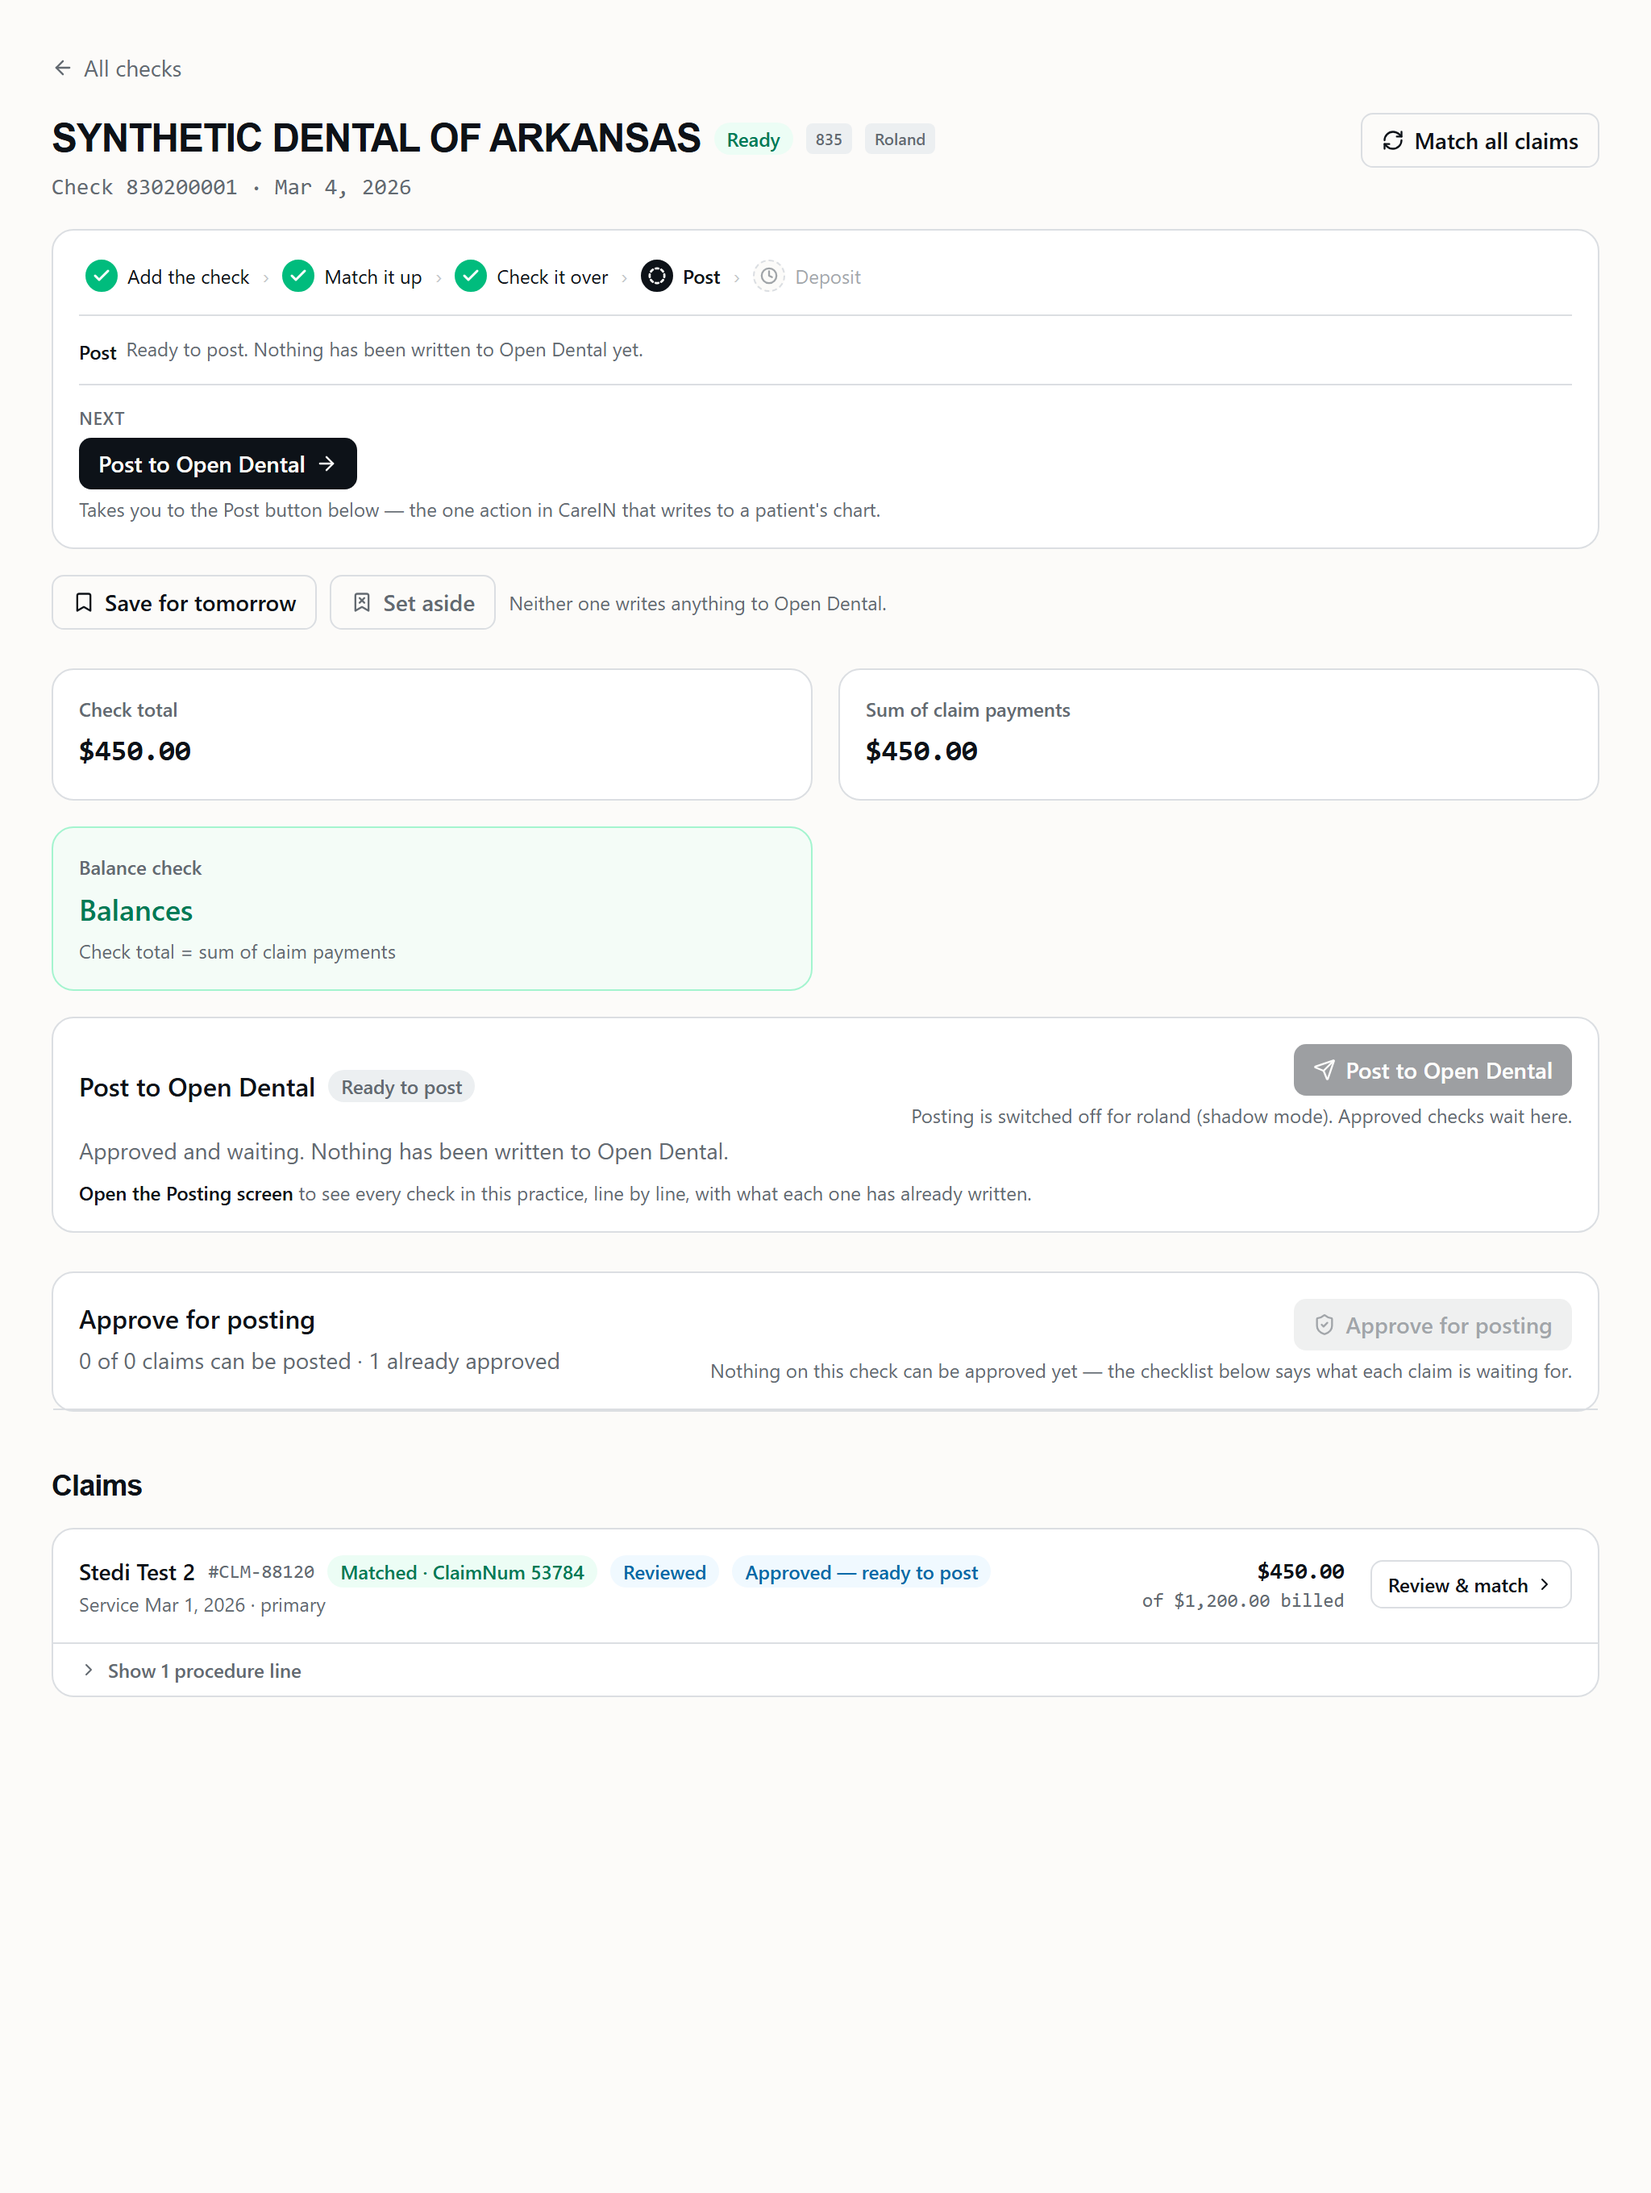
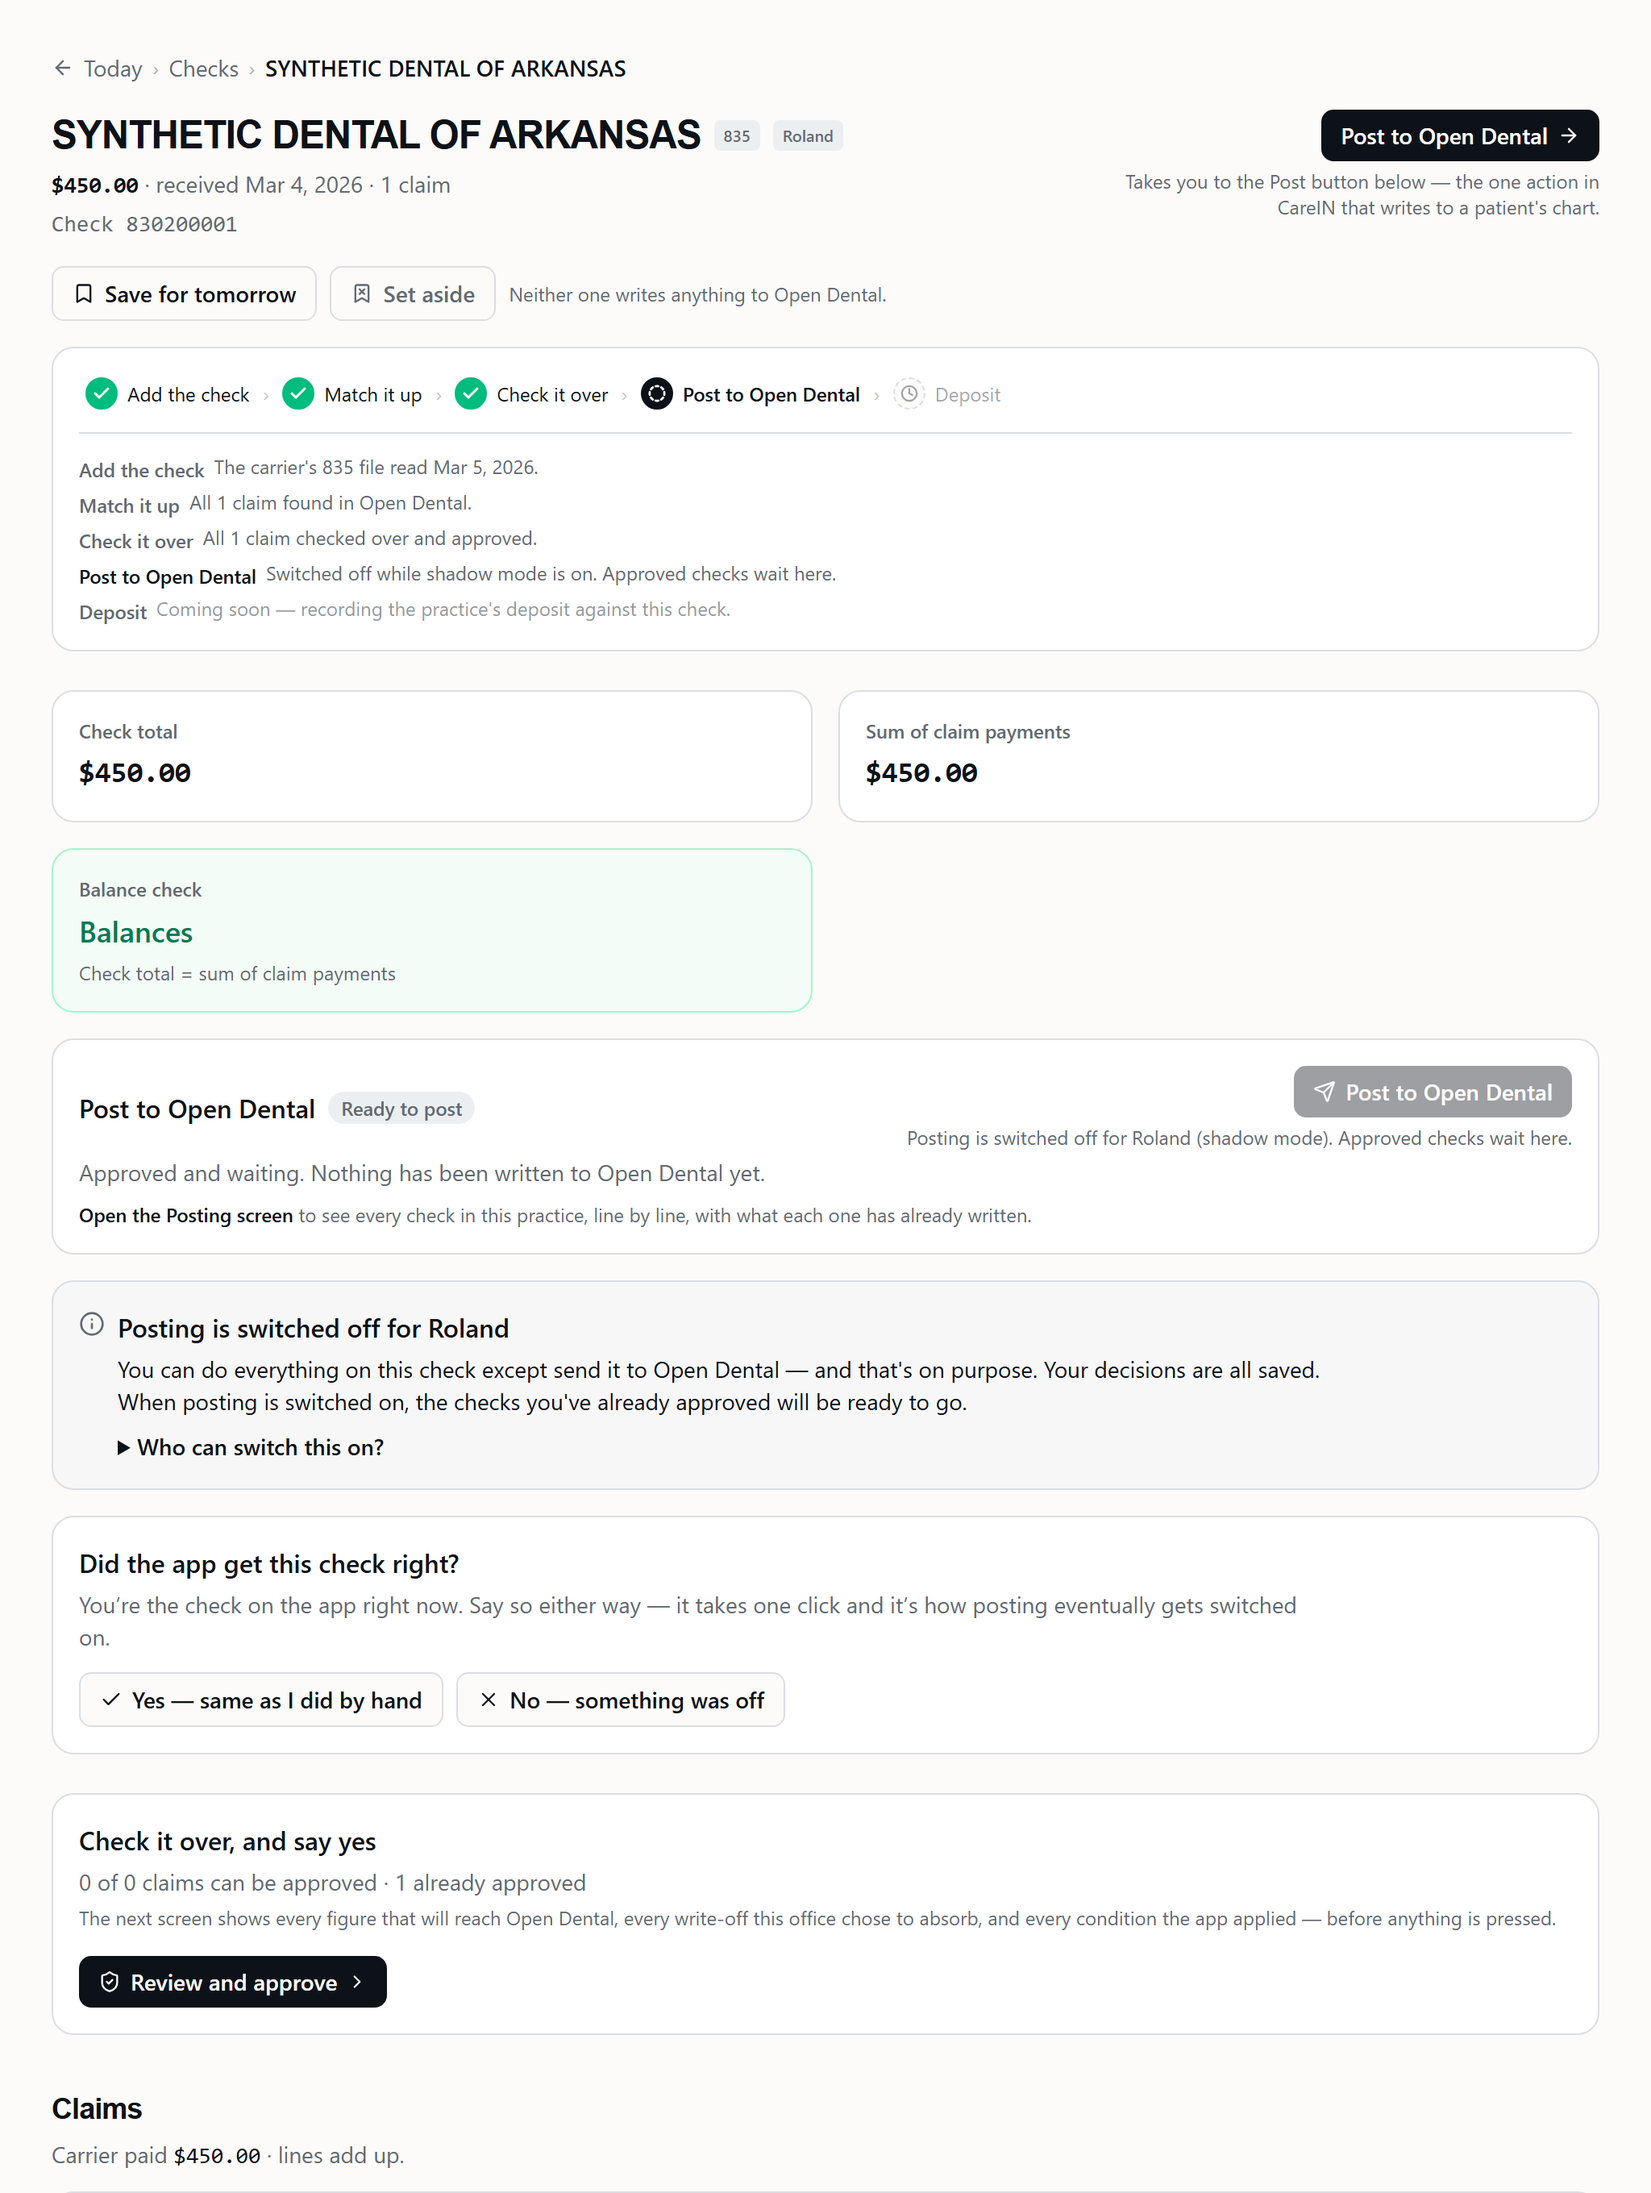
Name the practice, not its key, in the check page's Post reason
PostThisCheck passed the office key into SHADOW_MODE_COPY.reason, so the
greyed Post button read "switched off for roland". It now passes
RCM_OFFICE_LABELS[office], the label the Posting page and the shadow
banner on the same page already use.

The smoke's sweep now fails on any frozen office key in rendered text,
title or aria-label (sweep e), at every screen it visits; 1.17 pins the
exact sentence. The walkthrough drops the known-wart note and lists a
lowercase office key under what must not appear. shell-04 re-shot.

diff --git a/new-dashboard/tests/rcm-smoke.test.tsx b/new-dashboard/tests/rcm-smoke.test.tsx
@@ -28,6 +28,7 @@
  *                          b. every match run names what it skipped
  *                          c. no banned word · no greyed control without a reason
  *                          d. sentences wrap, identifiers truncate
+ *                          e. no machine office key in rendered text
  *
  * ─────────────────────────────────────────────────────────────────────────────
  * THE FAKE SERVER, AND WHAT IT IS ALLOWED TO KNOW
@@ -80,7 +81,12 @@ import { cleanup, fireEvent, render, screen, waitFor, within } from "@testing-li
 import { Router as WouterRouter } from "wouter";
 import { memoryLocation } from "wouter/memory-location";
 
-import { POSTING_STEPS, type BatchMatchResponse } from "@/features/rcm/api";
+import {
+  POSTING_STEPS,
+  RCM_OFFICE_IDS,
+  RCM_OFFICE_LABELS,
+  type BatchMatchResponse,
+} from "@/features/rcm/api";
 import {
   POST_AGAIN_SAFE,
   QUEUE_STATE_COPY,
@@ -1130,6 +1136,18 @@ function bannedWordHits(root: HTMLElement): string[] {
   return renderedProse(root).filter((t) => BANNED.some((re) => re.test(t)));
 }
 
+/**
+ * (e) MACHINE KEYS NEVER RENDER. `roland` and `valley` are the frozen office
+ * keys; a person reads the practice's name. Case-SENSITIVE on purpose: the
+ * label "Roland" is the right answer, the key "roland" is the leak — which is
+ * exactly what the check page's Post reason printed until PR #171 round 1.
+ */
+const OFFICE_KEY = new RegExp(`\\b(${RCM_OFFICE_IDS.join("|")})\\b`);
+
+function officeKeyHits(root: HTMLElement): string[] {
+  return renderedProse(root).filter((t) => OFFICE_KEY.test(t));
+}
+
 /** (c) The disabled-with-reason scan — `rcm-disabled-reasons.test.tsx`'s rule. */
 function unexplainedDisabled(root: HTMLElement): string[] {
   return Array.from(root.querySelectorAll("[disabled]"))
@@ -1325,12 +1343,13 @@ function expectWraps(cell: HTMLElement, rowTestId: string) {
 }
 
 /**
- * THE SWEEP — (a) and (c), over whatever screen is on the page right now.
+ * THE SWEEP — (a), (c) and (e), over whatever screen is on the page right now.
  * Returns the card families it judged, so a caller can say what was covered.
  */
 function sweep(root: HTMLElement = document.body): string[] {
   expect(unexplainedDisabled(root), "a greyed control with no reason beside it").toEqual([]);
   expect(bannedWordHits(root), "a banned word in rendered text").toEqual([]);
+  expect(officeKeyHits(root), "a machine office key in rendered text").toEqual([]);
   expect(multiStateCards(root), "a card carrying two state sentences (W-8)").toEqual([]);
   return familiesPresent(root);
 }
@@ -1904,7 +1923,11 @@ describe("1 · enter a check, the whole road", () => {
     const { container } = renderAt(<RemittanceDetail />, `/rcm/remittances/${A}`);
     const button = (await screen.findByTestId("post-this-check-button")) as HTMLButtonElement;
     expect(button.disabled).toBe(true);
-    expect(screen.getByTestId("post-this-check-reason").textContent).toContain("(shadow mode)");
+    // The practice's NAME, never its key — the same sentence the Posting page prints.
+    const reason = screen.getByTestId("post-this-check-reason").textContent ?? "";
+    expect(reason).toBe(SHADOW_MODE_COPY.reason(RCM_OFFICE_LABELS.roland));
+    expect(reason).toBe("Posting is switched off for Roland (shadow mode). Approved checks wait here.");
+    expect(officeKeyHits(screen.getByTestId("post-this-check"))).toEqual([]);
     expect(screen.getByTestId("post-this-check-hint").textContent).toBe(
       "Approved and waiting. Nothing has been written to Open Dental yet.",
     );
@@ -2726,5 +2749,24 @@ describe("5d · sentences wrap, identifiers truncate", () => {
     expect(shell).toContain('describe("a column whose job is a sentence never cuts itself off"');
     expect(shell).toContain('it("still truncates the IDENTIFIER cells beside them"');
     expect(existsSync(join(__dirname, "rcm-shell.test.tsx"))).toBe(true);
+  });
+});
+
+describe("5e · machine office keys never render", () => {
+  it("the key scan is not vacuous — it catches a key in text or an attribute, and lets the name through", () => {
+    const { container } = render(
+      <div>
+        <p>Posting is switched off for roland (shadow mode).</p>
+        <button aria-label="Refresh valley">↻</button>
+        <p>Posting is switched off for {RCM_OFFICE_LABELS.roland} (shadow mode).</p>
+        <p>{RCM_OFFICE_LABELS.valley} is unaffected.</p>
+      </div>,
+    );
+    expect(officeKeyHits(container)).toEqual([
+      "Posting is switched off for roland (shadow mode).",
+      "Refresh valley",
+    ]);
+    // Every frozen key is covered — a third office is a migration, and this scan follows it.
+    for (const key of RCM_OFFICE_IDS) expect(OFFICE_KEY.test(`for ${key}.`), key).toBe(true);
   });
 });

diff --git a/new-dashboard/client/src/components/rcm/PostThisCheck.tsx b/new-dashboard/client/src/components/rcm/PostThisCheck.tsx
@@ -48,6 +48,7 @@ import DisabledReason from "@/components/rcm/DisabledReason";
 import {
   drainPostingQueue,
   getPostingPlan,
+  RCM_OFFICE_LABELS,
   RcmApiError,
   type PostingQueueDetail,
   type PostingQueueStatus,
@@ -228,7 +229,9 @@ export default function PostThisCheck({
     : !postingEnabled
       ? "This practice has not been switched on for posting yet. Its own Open Dental settings have to be read and proven first; the other practice is unaffected."
       : !drainEnabled
-        ? SHADOW_MODE_COPY.reason(office)
+        ? // The practice's NAME — `office` is a machine key, and machine keys
+          // never render. The Posting page passes the same label.
+          SHADOW_MODE_COPY.reason(RCM_OFFICE_LABELS[office])
         : null;
 
   return (

diff --git a/docs/RCM_UI_WALKTHROUGH.md b/docs/RCM_UI_WALKTHROUGH.md
@@ -199,10 +199,9 @@ Go back to R1's page.
 - In the step row, **Post to Open Dental** reads "Switched off while shadow mode
   is on. Approved checks wait here." It is not red — nothing is wrong.
 - The **Post to Open Dental** button is grey, and the reason is printed beside it
-  (not in a tooltip): posting is switched off (shadow mode) and approved checks
-  wait here. *Known, logged for a follow-up:* this one sentence prints the office's
-  system name, "roland", where it should say "Roland Family Dental". Nothing else
-  about it is wrong.
+  (not in a tooltip): "Posting is switched off for Roland (shadow mode). Approved
+  checks wait here." — the practice's name, capitalised, the same as the banner
+  below it says.
 - Under it: "Approved and waiting. Nothing has been written to Open Dental yet."
 - A grey banner: "You can do everything on this check except send it to Open
   Dental — and that's on purpose…" with **Who can switch this on?**
@@ -303,6 +302,9 @@ If you see any of these, stop and send a screenshot.
   been written to Open Dental yet."
 - **An email address where a name belongs** — in the header, "decided by",
   "approved by", "checked over by", or on the Admin cards.
+- **A practice's system name** — "roland" or "valley" in lowercase, anywhere a
+  sentence names the practice. It should always read "Roland" (or the full
+  practice name).
 - **Two state sentences on one card** — for example "already approved" beside
   "waiting for", or "Finished" beside "stopped".
 - **A grey button with no reason beside it.** Every button that can't be pressed
